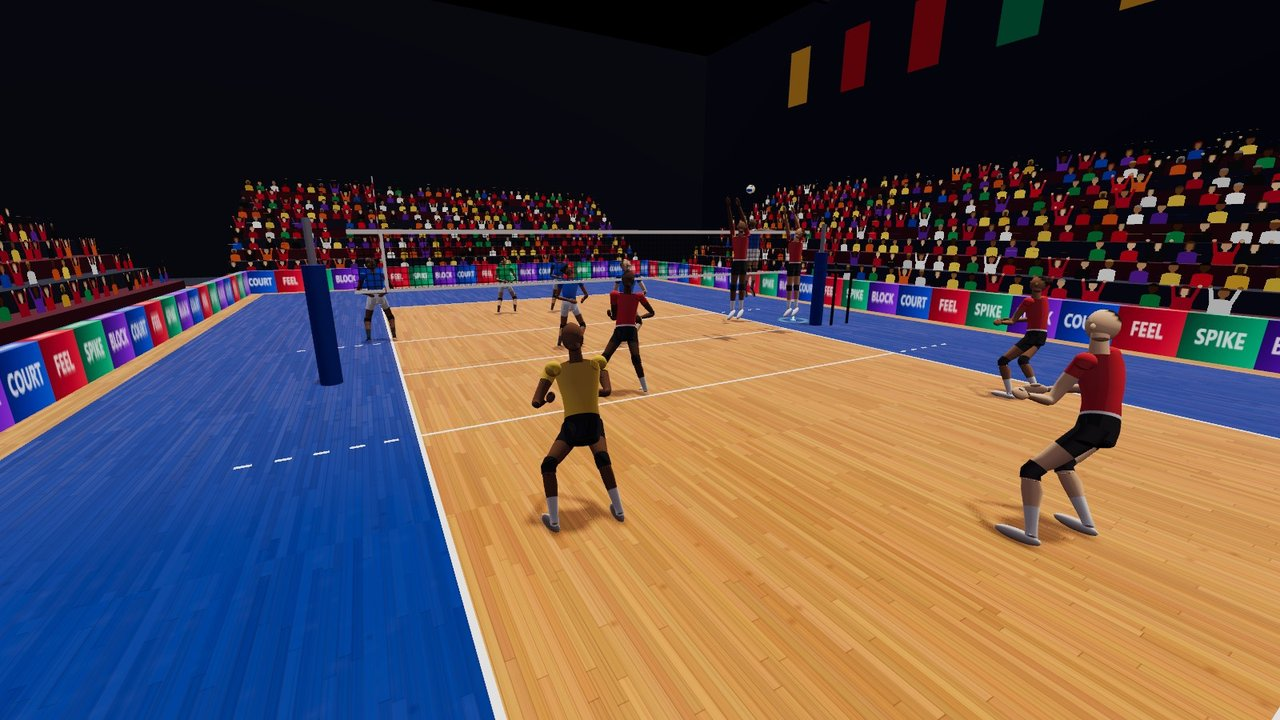
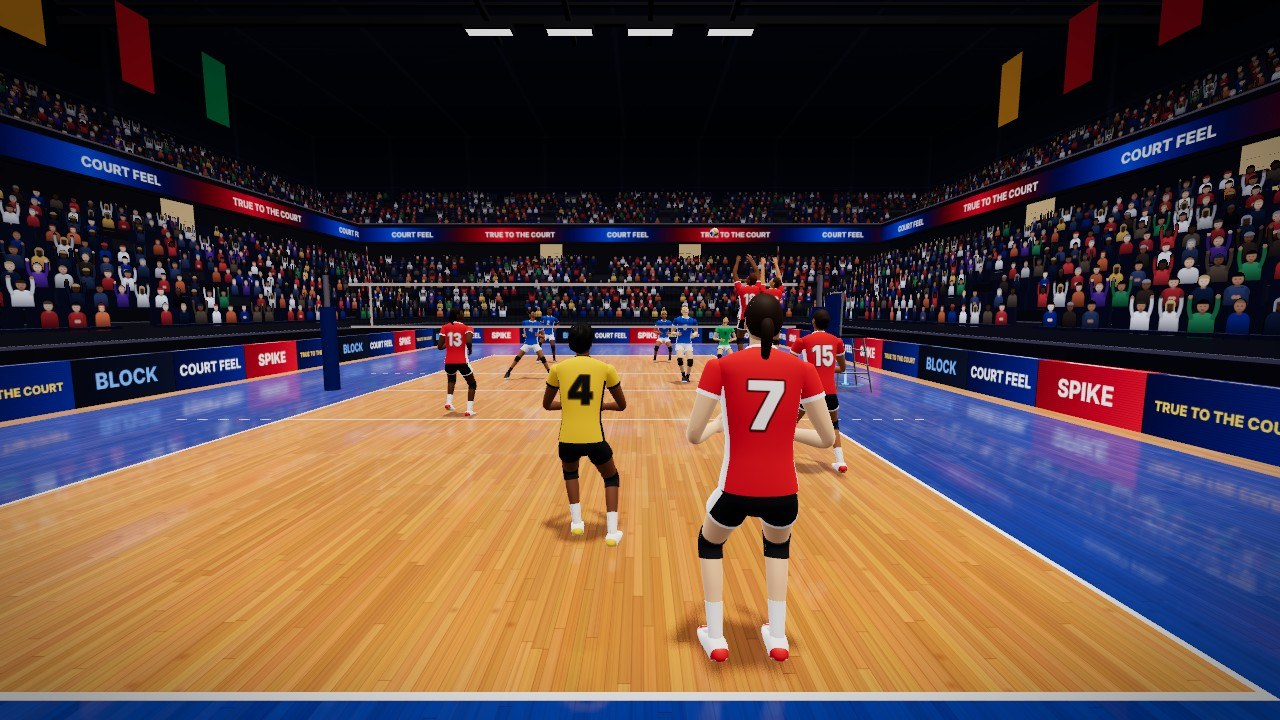
docs(screenshots): the Mini Rally AI's eleven moments retaken with the new athletes and hall
The same moments (the closed block, the commit block, the split step, the
pipe, perimeter defence, early transition, a dive, an overhand receive, a
jump serve, the cover, the transition off the net), found by the game state
that marks each and taken through the game's third-person camera. Three
README descriptions say what the new frames show.

Claude-Session: https://claude.ai/code/session_01UDovnHPgqAbYCnhsyhhXxa

diff --git a/README.md b/README.md
@@ -91,7 +91,7 @@ Real frames from the game: no paint-overs, no staged cameras.
   </tr>
   <tr>
     <td width="50%" valign="top">
-      <img src="docs/screenshots/mini-rally-split-step.jpg" alt="Mini Rally from behind the libero: the three back-row defenders just off the floor in a split step as the other team's hitter rises, two blockers up at the net">
+      <img src="docs/screenshots/mini-rally-split-step.jpg" alt="Mini Rally from behind the libero as the other team's hitter rises: the back-row outside beside them loaded for the split step, two blockers up at the net">
       <b>The split step.</b> As their hitter swings, the defence hops and lands on the contact. Team-mates give way to whoever plays the ball.
     </td>
     <td width="50%" valign="top">
@@ -101,11 +101,11 @@ Real frames from the game: no paint-overs, no staged cameras.
   </tr>
   <tr>
     <td width="50%" valign="top">
-      <img src="docs/screenshots/mini-rally-perimeter-defence.jpg" alt="Mini Rally from behind the libero at left back: the left front pulled off the net, two blockers up at the right of the net, the back-row outside deep in the middle, the setter on the right line">
+      <img src="docs/screenshots/mini-rally-perimeter-defence.jpg" alt="Mini Rally from behind the libero at left back as their outside swings: the left front pulled off the net, two blockers up at the right of the net, the back-row outside deep beside the libero">
       <b>The defence reads the set.</b> Perimeter defence as their outside swings: the line, the cross, deep at the end line, and the off-blocker off the net for tips.
     </td>
     <td width="50%" valign="top">
-      <img src="docs/screenshots/mini-rally-early-transition.jpg" alt="Mini Rally from behind the libero on their passing spot, the ball high off a soft block, the setter running for the net and the front row leaving it">
+      <img src="docs/screenshots/mini-rally-early-transition.jpg" alt="Mini Rally from behind the libero on their passing spot, the ball high off a soft block and the setter already on the way to the net">
       <b>Early transition.</b> A soft block the libero will pass easily: the setter is already running to the net and the hitters are off it before the pass.
     </td>
   </tr>
